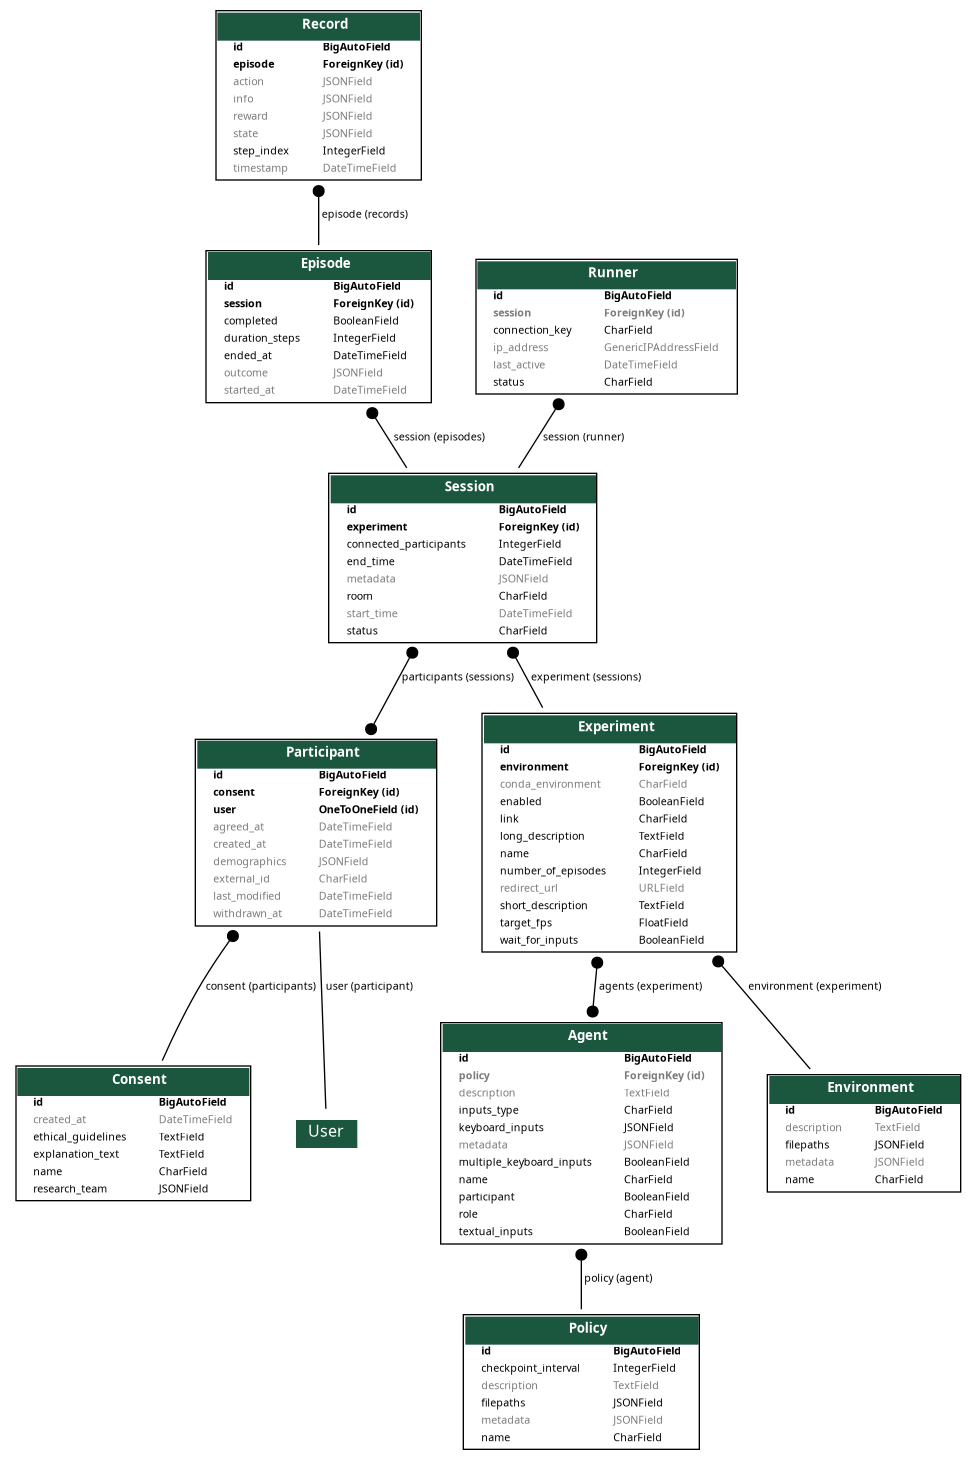
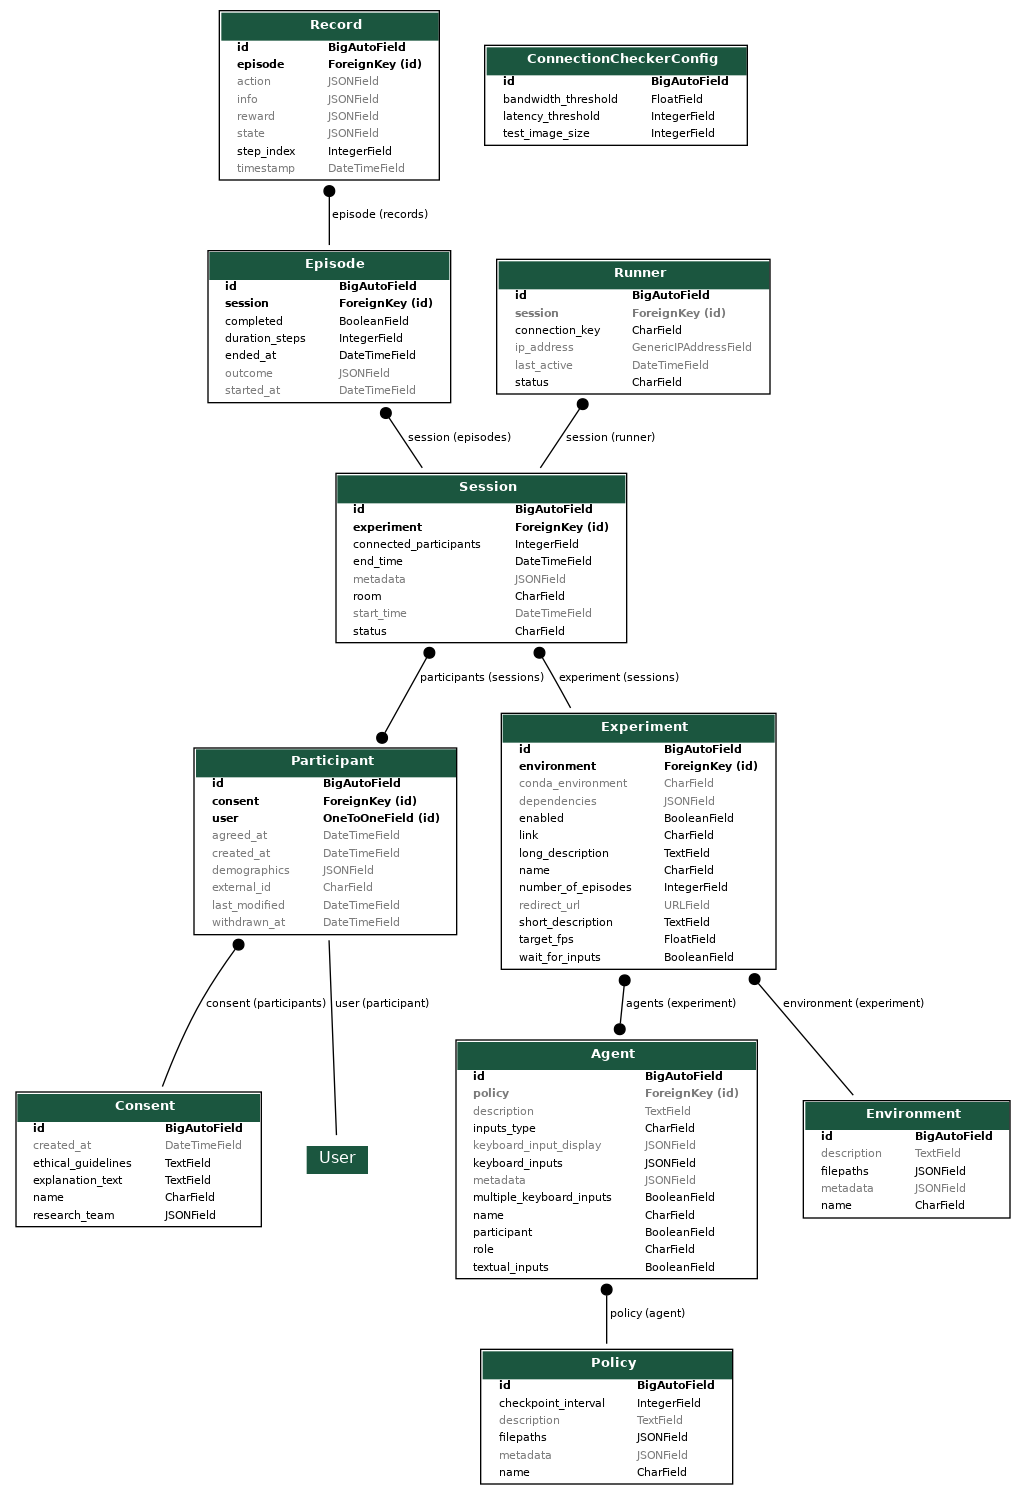
Store use-case dependencies on Experiment

diff --git a/sharpie/webserver/experiment/models.py b/sharpie/webserver/experiment/models.py
@@ -197,6 +197,7 @@ class Experiment(models.Model):
     name = models.CharField('Name', max_length=100)
     link = models.CharField('Link to the experiment', max_length=100, unique=True, help_text="Unique identifier (slug) for the experiment URL")
     conda_environment = models.CharField('Name of a Conda environment already installed on the runner', max_length=100, null=True, blank=True)
+    dependencies = models.JSONField('Python packages needed by the experiment', default=list, blank=True, help_text='List of pip requirements, e.g. ["gymnasium[classic_control]"].')
 
     short_description = models.TextField('To be displayed on the home page')
     long_description = models.TextField('To be displayed on the experiment page')
@@ -214,6 +215,14 @@ class Experiment(models.Model):
         """Run full model validation before saving the experiment."""
         self.full_clean()
         super().save(*args, **kwargs)
+
+    def clean(self):
+        """Validate that dependencies are a list of pip requirement strings."""
+        if not isinstance(self.dependencies, list) or not all(
+                isinstance(requirement, str) and requirement.strip()
+                for requirement in self.dependencies):
+            raise ValidationError({'dependencies': 'Dependencies must be a list of pip '
+                                                   'requirement strings.'})
 
     def __str__(self):
         return self.name

diff --git a/sharpie/webserver/experiment/migrations/0004_experiment_dependencies.py b/sharpie/webserver/experiment/migrations/0004_experiment_dependencies.py
@@ -1,0 +1,18 @@
+# Generated by Django 5.2.17 on 2026-10-12 14:53
+
+from django.db import migrations, models
+
+
+class Migration(migrations.Migration):
+
+    dependencies = [
+        ('experiment', '0003_connectioncheckerconfig'),
+    ]
+
+    operations = [
+        migrations.AddField(
+            model_name='experiment',
+            name='dependencies',
+            field=models.JSONField(blank=True, default=list, help_text='List of pip requirements, e.g. ["gymnasium[classic_control]"].', verbose_name='Python packages needed by the experiment'),
+        ),
+    ]

diff --git a/sharpie/install/installer.py b/sharpie/install/installer.py
@@ -108,6 +108,7 @@ def setup_database(config: dict, verbosity: int = 1):
 
     exp_data = config['experiment'].copy()
     exp_data['environment'] = env
+    exp_data['dependencies'] = config.get('dependencies') or []
     exp, created = Experiment.objects.update_or_create(
         link=exp_data['link'],
         defaults=exp_data

diff --git a/docs/source/data_model.rst b/docs/source/data_model.rst
@@ -57,6 +57,7 @@ The experiment app defines the configuration for RL experiments.
     - ``agents``: Agents involved in the experiment (ManyToMany)
     - ``number_of_episodes``: Episodes to complete
     - ``target_fps`` / ``wait_for_inputs``: Timing configuration
+    - ``dependencies``: pip requirements of the experiment
 
 Data
 ----
